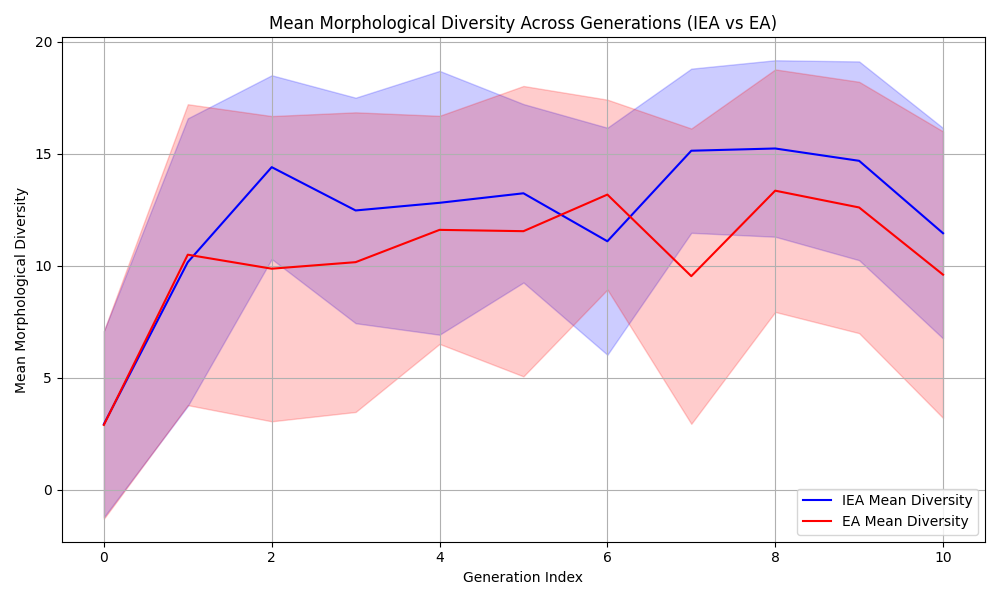
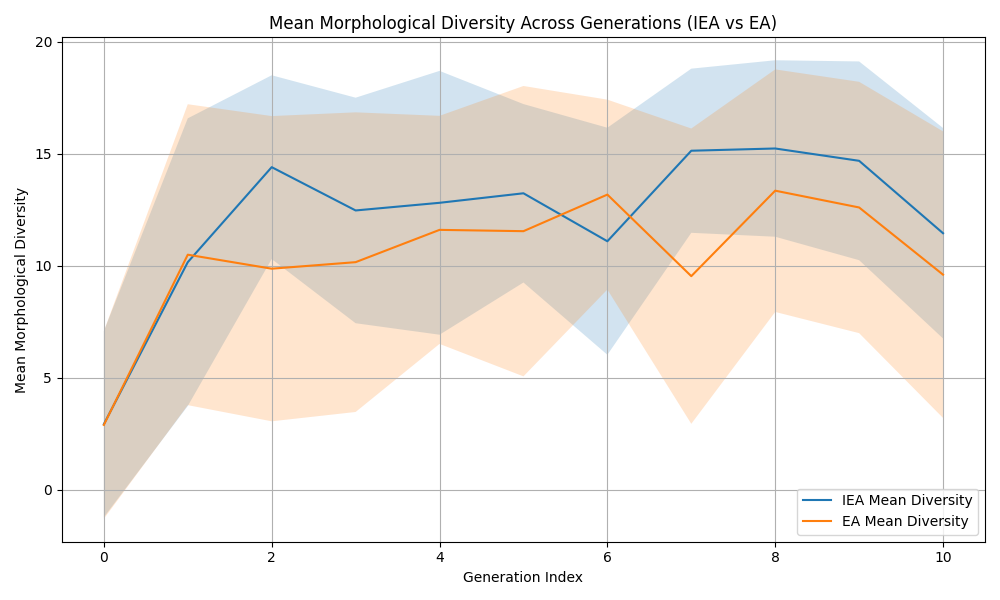
Fixed color mismatch in a plot

diff --git a/vr/db/plot_diversity.py b/vr/db/plot_diversity.py
@@ -159,8 +159,8 @@ def plot_diversity_over_generations():
     setup_logging()
 
     # Process both databases
-    iea_data = process_database('iea_database.sqlite')
-    ea_data = process_database('ea12_database.sqlite')
+    iea_data = process_database('databases/iea_database.sqlite')
+    ea_data = process_database('databases/ea12_database.sqlite')
 
     # Initialize the plot
     plt.figure(figsize=(10, 6))
@@ -170,13 +170,11 @@ def plot_diversity_over_generations():
         iea_data["generation_index"],
         iea_data["mean_diversity_mean"],
         label="IEA Mean Diversity",
-        color="b",
     )
     plt.fill_between(
         iea_data["generation_index"],
         iea_data["mean_diversity_mean"] - iea_data["mean_diversity_std"],
         iea_data["mean_diversity_mean"] + iea_data["mean_diversity_std"],
-        color="b",
         alpha=0.2,
     )
 
@@ -185,13 +183,11 @@ def plot_diversity_over_generations():
         ea_data["generation_index"],
         ea_data["mean_diversity_mean"],
         label="EA Mean Diversity",
-        color="r",
     )
     plt.fill_between(
         ea_data["generation_index"],
         ea_data["mean_diversity_mean"] - ea_data["mean_diversity_std"],
         ea_data["mean_diversity_mean"] + ea_data["mean_diversity_std"],
-        color="r",
         alpha=0.2,
     )
 
